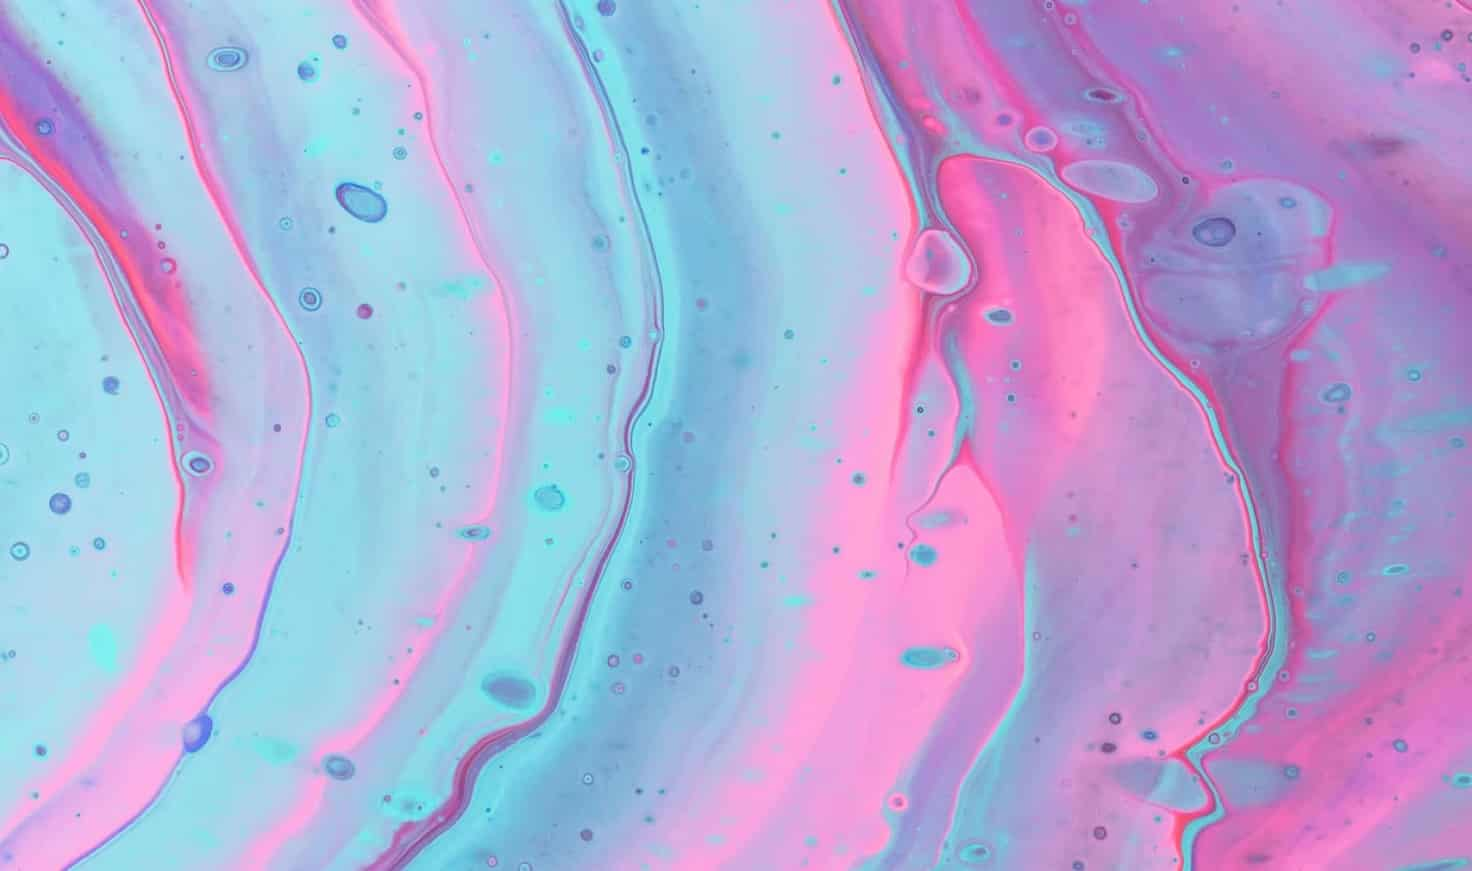
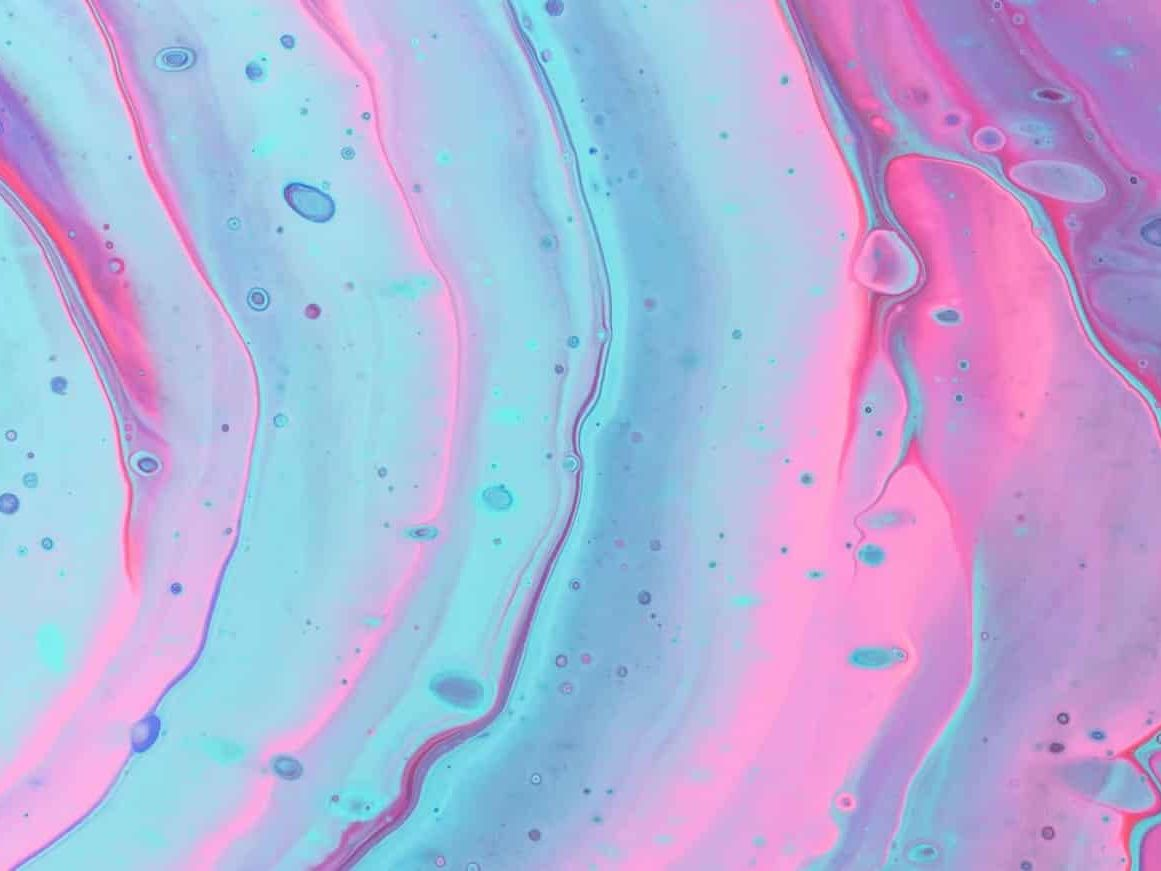
making projects card an astro component reused for projects index page

diff --git a/astro/src/styles/pages/_projects-list.scss b/astro/src/styles/pages/_projects-list.scss
@@ -1,0 +1,3 @@
+.component__project-card {
+    grid-column: 2/5;
+}

diff --git a/astro/src/styles/main.scss b/astro/src/styles/main.scss
@@ -7,5 +7,6 @@
 @use './components/header';
 
 @use './pages/landing';
+@use './pages/projects-list';
 
 @use './layout/single-column-page';